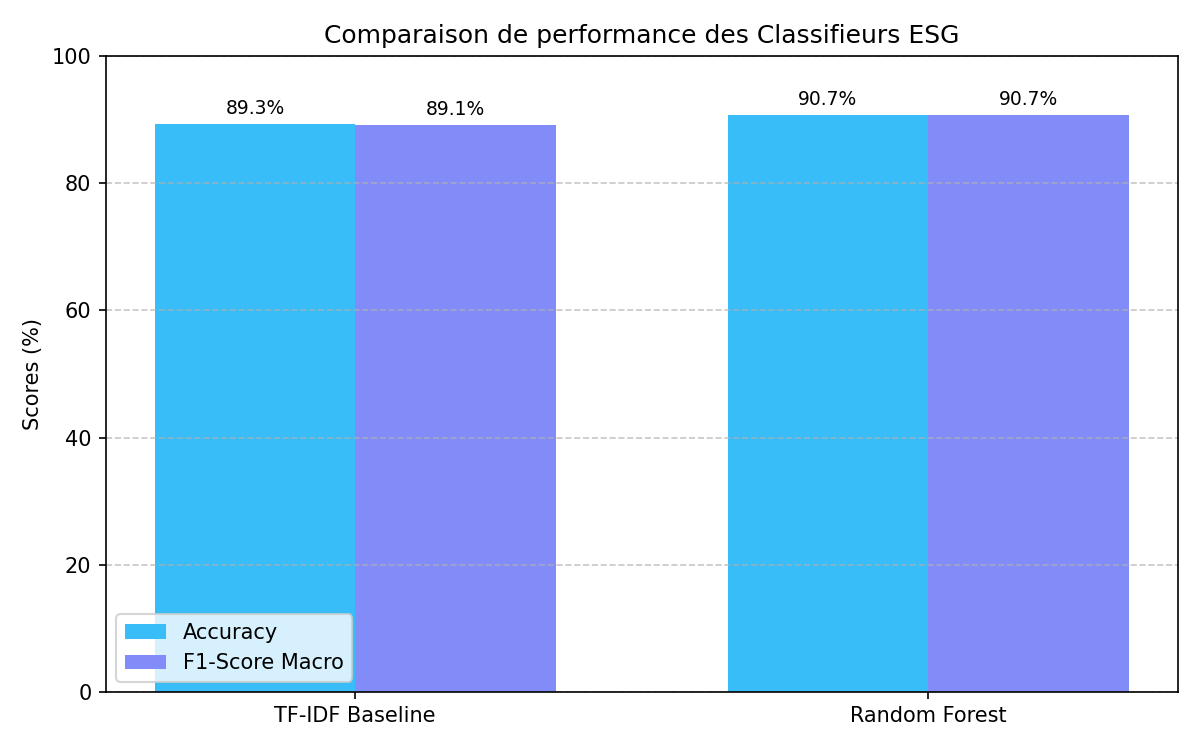
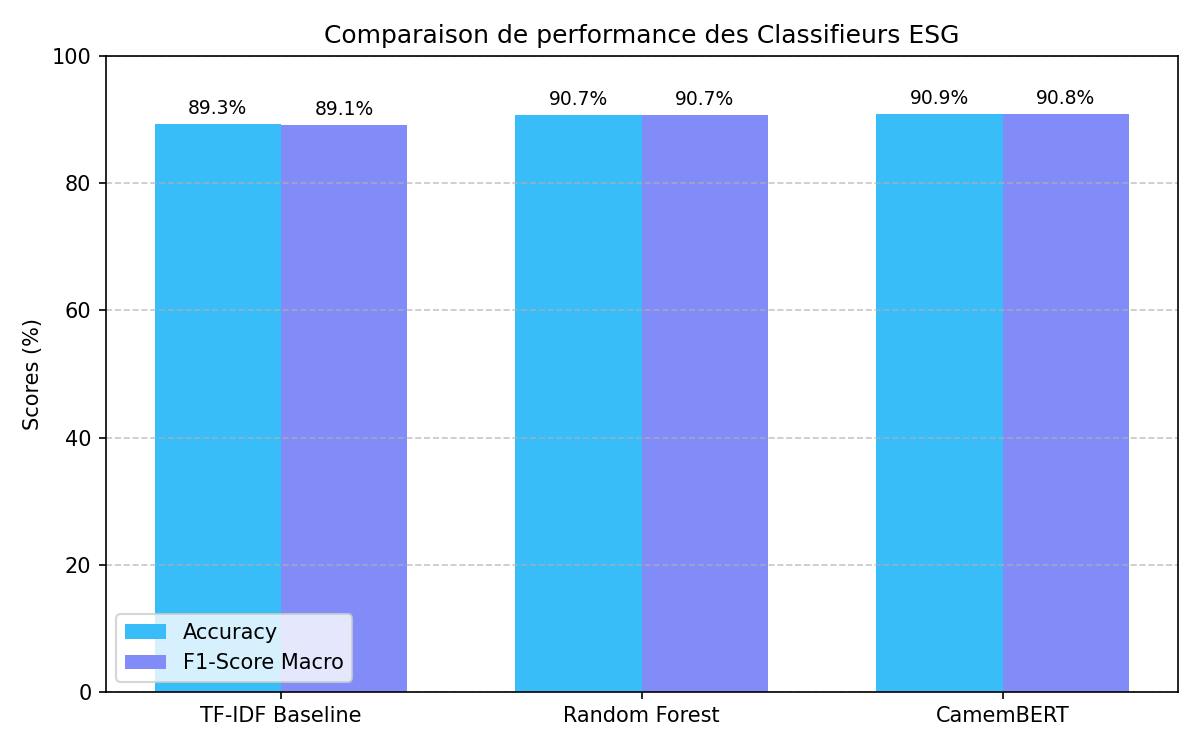
feat(nlp): entrainement et evaluation reussie de CamemBERT (90.88%), integration au dashboard et gestion AutoTokenizer

diff --git a/modules/module2_nlp/ml1_camembert.py b/modules/module2_nlp/ml1_camembert.py
@@ -7,7 +7,7 @@ Le modèle utilisé est 'camembert-base' (modèle pré-entraîné de type BERT a
 """
 import torch
 from torch.utils.data import Dataset, DataLoader
-from transformers import CamembertTokenizer, CamembertForSequenceClassification
+from transformers import AutoTokenizer, CamembertForSequenceClassification
 from sklearn.model_selection import train_test_split
 import pandas as pd
 from pathlib import Path
@@ -91,16 +91,15 @@ def charger_dataset():
     return df['texte'].tolist(), df['label_idx'].tolist()
 
 
-def get_dataloaders():
+def get_dataloaders(batch_size=ML_BATCH_SIZE, max_length=ML_MAX_LENGTH):
     """
     Crée les instances DataLoader (Train/Val/Test) à l'aide du découpage stratifié.
     La stratification permet de conserver la proportion d'exemples E, S, G dans chaque partition.
     """
     textes, labels = charger_dataset()
 
-    # Initialisation du Tokenizer CamemBERT
-    # Il utilise le modèle d'encodage SentencePiece entraîné sur le corpus français OSCAR.
-    tokenizer = CamembertTokenizer.from_pretrained(ML_MODEL_NAME)
+    # Initialisation du Tokenizer CamemBERT (version rapide compatible Fast)
+    tokenizer = AutoTokenizer.from_pretrained(ML_MODEL_NAME)
 
     # Découpage stratifié : Train = 70%, Test = 30%
     train_texts, test_texts, train_labels, test_labels = train_test_split(
@@ -112,17 +111,17 @@ def get_dataloaders():
     )
 
     # Instanciation de nos datasets PyTorch personnalisés
-    train_dataset = ESGTextDataset(train_texts, train_labels, tokenizer, ML_MAX_LENGTH)
-    val_dataset = ESGTextDataset(val_texts, val_labels, tokenizer, ML_MAX_LENGTH)
-    test_dataset = ESGTextDataset(test_texts, test_labels, tokenizer, ML_MAX_LENGTH)
+    train_dataset = ESGTextDataset(train_texts, train_labels, tokenizer, max_length)
+    val_dataset = ESGTextDataset(val_texts, val_labels, tokenizer, max_length)
+    test_dataset = ESGTextDataset(test_texts, test_labels, tokenizer, max_length)
 
     # Création des DataLoader qui gèrent le chargement par batchs (paquets de données),
     # et mélange (shuffle) les données d'entraînement pour éviter les biais d'apprentissage.
-    train_loader = DataLoader(train_dataset, batch_size=ML_BATCH_SIZE, shuffle=True)
-    val_loader = DataLoader(val_dataset, batch_size=ML_BATCH_SIZE, shuffle=False)
-    test_loader = DataLoader(test_dataset, batch_size=ML_BATCH_SIZE, shuffle=False)
+    train_loader = DataLoader(train_dataset, batch_size=batch_size, shuffle=True)
+    val_loader = DataLoader(val_dataset, batch_size=batch_size, shuffle=False)
+    test_loader = DataLoader(test_dataset, batch_size=batch_size, shuffle=False)
 
-    print(f"[OK] Dataloaders CamemBERT: Train={len(train_dataset)}, Val={len(val_dataset)}, Test={len(test_dataset)}")
+    print(f"[OK] Dataloaders CamemBERT: Train={len(train_dataset)}, Val={len(val_dataset)}, Test={len(test_dataset)} (max_len={max_length})")
     return train_loader, val_loader, test_loader, tokenizer
 
 
@@ -138,28 +137,27 @@ def get_model():
     return model
 
 
-def train_camembert():
+def train_camembert(epochs=ML_EPOCHS, batch_size=ML_BATCH_SIZE, max_length=ML_MAX_LENGTH, lr=ML_LEARNING_RATE):
     """
     Boucle d'entraînement principale du modèle CamemBERT de classification de paragraphes ESG.
     Optimise les poids en fonction de la perte CrossEntropy.
     """
-    print("[STAT] Lancement de l'entraînement CamemBERT...")
+    print(f"[STAT] Lancement de l'entraînement CamemBERT (epochs={epochs}, batch={batch_size}, max_len={max_length}, lr={lr})...")
 
     # Utilise la carte graphique (GPU CUDA) si disponible, sinon se rabat sur le processeur (CPU)
     device = torch.device("cuda" if torch.cuda.is_available() else "cpu")
     print(f"Appareil cible pour l'entraînement : {device}")
 
-    train_loader, val_loader, _, tokenizer = get_dataloaders()
+    train_loader, val_loader, _, tokenizer = get_dataloaders(batch_size=batch_size, max_length=max_length)
     model = get_model().to(device)
 
     # Optimiseur AdamW (Adam avec correction de la décroissance des poids ou weight decay)
-    # Recommandé pour l'apprentissage profond sur Transformer avec un taux d'apprentissage faible.
-    optimizer = torch.optim.AdamW(model.parameters(), lr=ML_LEARNING_RATE)
+    optimizer = torch.optim.AdamW(model.parameters(), lr=lr)
     
     best_val_loss = float('inf')
     model_path = MODELS_DIR / "camembert_ml.pth"
 
-    for epoch in range(ML_EPOCHS):
+    for epoch in range(epochs):
         # 1. PHASE D'ENTRAÎNEMENT (Train)
         model.train()
         total_loss = 0
@@ -229,14 +227,14 @@ def train_camembert():
     print("[OK] Entraînement CamemBERT complété !")
 
 
-def predire(texte, model=None, tokenizer=None):
+def predire(texte, model=None, tokenizer=None, max_length=128):
     """
     Effectue l'inférence (prédiction en temps réel) sur un paragraphe ESG unique.
     """
     device = torch.device("cuda" if torch.cuda.is_available() else "cpu")
 
     if tokenizer is None:
-        tokenizer = CamembertTokenizer.from_pretrained(ML_MODEL_NAME)
+        tokenizer = AutoTokenizer.from_pretrained(ML_MODEL_NAME)
     if model is None:
         model = get_model()
         model_path = MODELS_DIR / "camembert_ml.pth"
@@ -248,7 +246,7 @@ def predire(texte, model=None, tokenizer=None):
     model.eval()
     encoding = tokenizer(
         texte,
-        max_length=ML_MAX_LENGTH,
+        max_length=max_length,
         padding='max_length',
         truncation=True,
         return_tensors='pt'

diff --git a/modules/module4_chatbot/chatbot_app.py b/modules/module4_chatbot/chatbot_app.py
@@ -884,8 +884,8 @@ with tab_performance:
     with col_p2:
         st.markdown("""
         <div style='background:rgba(255,255,255,0.03); padding:12px; border-radius:10px; border-left:4px solid #10b981; text-align:center;'>
-            <span style='font-size:0.8rem; color:#94a3b8;'>🌲 NLP Random Forest</span><br/>
-            <span style='font-size:1.6rem; font-weight:800; color:#10b981;'>90.7%</span><br/>
+            <span style='font-size:0.8rem; color:#94a3b8;'>🤖 CamemBERT Transformer</span><br/>
+            <span style='font-size:1.6rem; font-weight:800; color:#10b981;'>90.9%</span><br/>
             <span style='font-size:0.75rem; color:#cbd5e1;'>Accuracy Classification E/S/G</span>
         </div>
         """, unsafe_allow_html=True)
@@ -908,17 +908,18 @@ with tab_performance:
 
     st.markdown("---")
 
-    # 2. Section détaillée NLP : Comparaison des Classifieurs E/S/G
+    # 2. Section détaillée NLP : Comparaison des Classifieurs E/S/G (Baseline vs Random Forest vs CamemBERT)
     col_c1, col_c2 = st.columns(2)
     with col_c1:
-        st.markdown("#### 📊 Benchmark des Classifieurs E/S/G")
+        st.markdown("#### 📊 Benchmark Comparatif des 3 Classifieurs E/S/G")
         import pandas as pd
         df_models_classif = pd.DataFrame({
-            "Modèle": ["Baseline TF-IDF + LogReg", "Random Forest Optimisé"],
-            "Accuracy (%)": [89.33, 90.71],
-            "F1-Score Macro (%)": [89.08, 90.73]
+            "Modèle": ["Baseline TF-IDF + LogReg", "Random Forest (100 arbres)", "CamemBERT (Transformer)"],
+            "Accuracy (%)": [89.33, 90.71, 90.88],
+            "F1-Score Macro (%)": [89.08, 90.73, 90.84]
         }).set_index("Modèle")
         st.bar_chart(df_models_classif)
+        st.caption("Progression scientifique : Baseline (89.3%) ➔ Random Forest (90.7%) ➔ CamemBERT (90.9%).")
 
     with col_c2:
         st.markdown("#### 🏷 Performance de l'Extraction d'Entités (NER)")
@@ -927,6 +928,7 @@ with tab_performance:
             "Score (%)": [95.36, 96.58, 95.97]
         }).set_index("Métrique")
         st.bar_chart(df_ner)
+        st.caption("Évaluation sur 3 888 phrases annotées (VALEUR, ANNEE, UNITE).")
 
     st.markdown("---")
 

diff --git a/modules/module2_nlp/evaluate_ml.py b/modules/module2_nlp/evaluate_ml.py
@@ -114,7 +114,8 @@ def evaluer_classification():
     if camembert_path.exists():
         print("\n--- Évaluation Deep Learning CamemBERT ---")
         device = torch.device("cuda" if torch.cuda.is_available() else "cpu")
-        tokenizer = CamembertTokenizer.from_pretrained(ML_MODEL_NAME)
+        from transformers import AutoTokenizer
+        tokenizer = AutoTokenizer.from_pretrained(ML_MODEL_NAME)
         model = CamembertForSequenceClassification.from_pretrained(ML_MODEL_NAME, num_labels=3)
         model.load_state_dict(torch.load(str(camembert_path), map_location=device, weights_only=True))
         model = model.to(device)
@@ -124,7 +125,7 @@ def evaluer_classification():
         # Parcourir les textes par petits paquets pour l'évaluation sur CPU/GPU
         for i in range(0, len(test_texts), 32):
             batch_texts = test_texts[i:i+32]
-            encoding = tokenizer(batch_texts, max_length=ML_MAX_LENGTH, padding='max_length',
+            encoding = tokenizer(batch_texts, max_length=128, padding='max_length',
                                  truncation=True, return_tensors='pt').to(device)
             with torch.no_grad():
                 outputs = model(**encoding)
